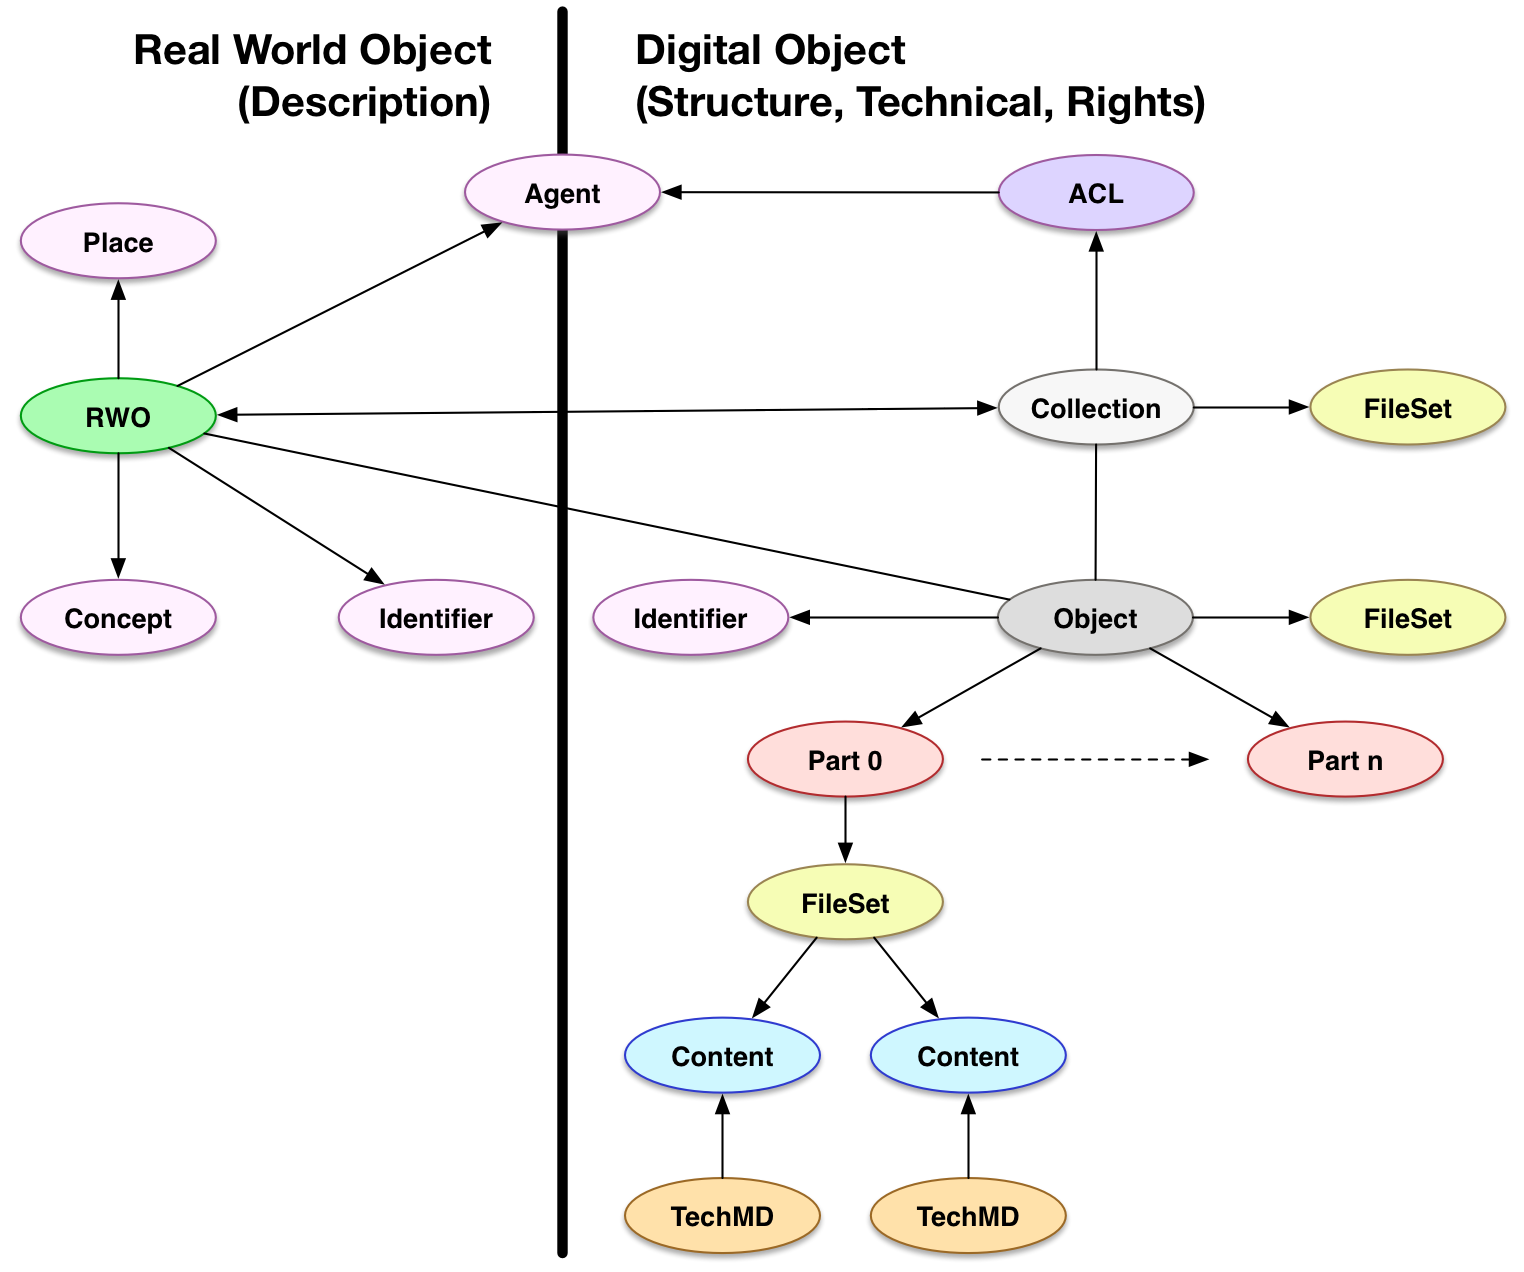
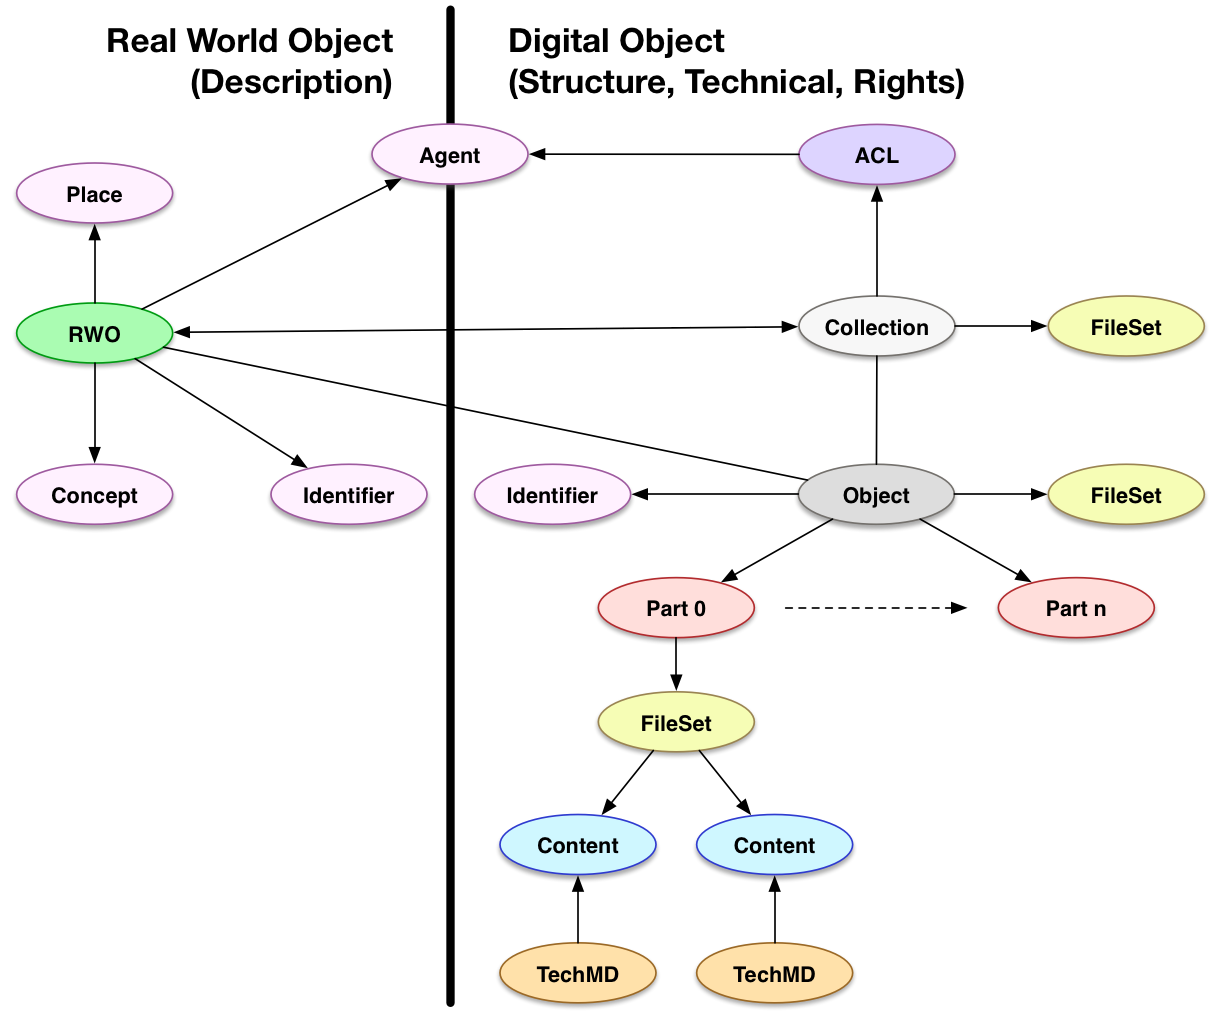
Further sketch, time out for the day

diff --git a/models/index.md b/models/index.md
@@ -9,7 +9,12 @@ The scope of the work is guided by the content types and is intented to be incre
 
 ## Overview
 
-*
+* The structure of the content is divided into Collections, Objects, and Parts.  These can be nested to create hierarchies.
+* A FileSet is used to maintain a grouping of original binary content, and its derivatives such as a master TIFF image, the JPG access copy, and the PNG thumbnail.
+* Files are the actual bitstreams, and can be described by Technical Metadata
+* Permissions are handled via Web ACLs, which refer to an Agent (such as a Person) and grant authoritizations over actions that person can take.  ACLs can be associated with any resource, including both the structural linked data and the binary content Files.
+* Real World Objects, such as the physical book that the scanned repository object represents, are separate from the repository object structure.  HyBox provides a minimal...
+
 
 ![Overview Diagram](images/high_level.png)
 
